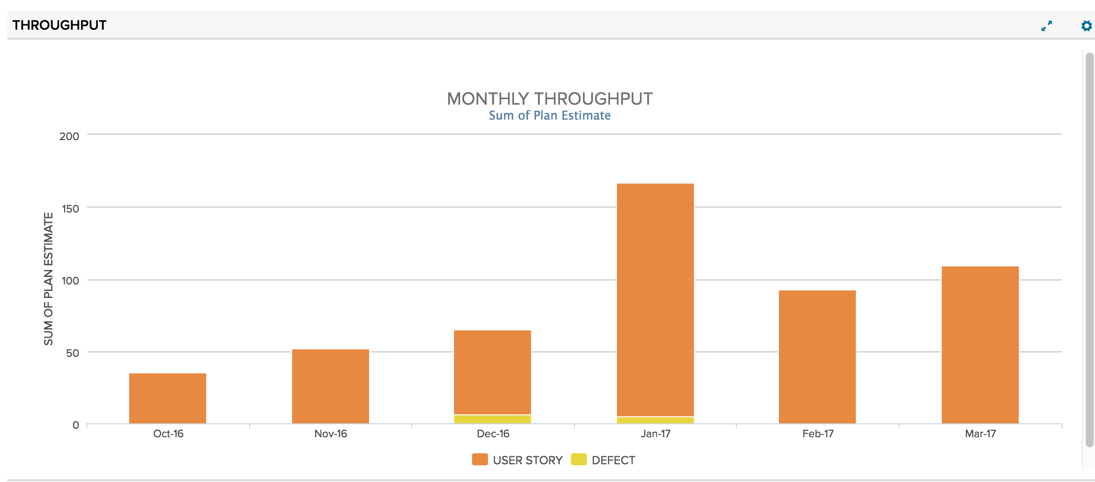
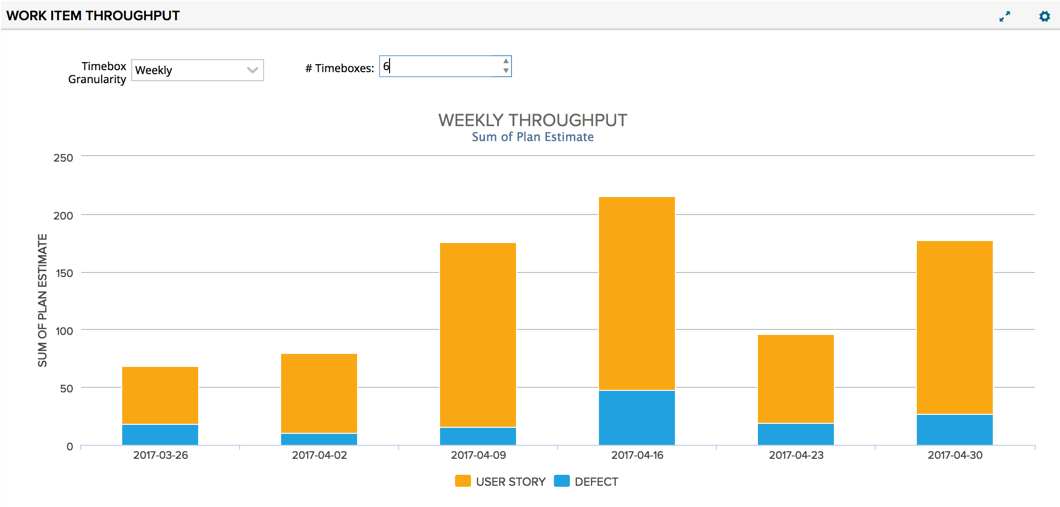
updated colors and added selectors to the front of the app

diff --git a/src/javascript/app.js b/src/javascript/app.js
@@ -17,14 +17,86 @@ Ext.define("workitem-throughput", {
             throughputMeasure: 'PlanEstimate',
             timeboxGranularity: 'week',
             numberTimeboxes: 6,
-            artifactModels: ['Defect','UserStory']
+            artifactModels: ['Defect','UserStory'],
+            allowSettingsOverride: true //If this is false, then the settings won't show on the front
         }
     },
 
+    MAX_TIMEBOXES: 26,
+
     launch: function() {
+        this.initializeApp();
+    },
+    initializeApp: function() {
+
+        if (this.getAllowSettingsOverride()) {
+
+            this.removeAll();
+            this.suspendEvents();
+            var selectorCt = this.add({
+                xtype: 'container',
+                layout: 'hbox'
+            });
+
+            var g = selectorCt.add({
+                xtype: 'rallycombobox',
+                fieldLabel: 'Timebox Granularity',
+                labelAlign: 'right',
+                name: 'timeboxGranularity',
+                itemId: 'timeboxGranularity',
+                editable: false,
+                store: Ext.create('Rally.data.custom.Store', {
+                    data: this.getGranularityData(),
+                    fields: ['name', 'value']
+                }),
+                allowNoEntry: false,
+                displayField: 'name',
+                valueField: 'value',
+                stateful: true,
+                margin: 5,
+                stateId: 'granularity-data'
+            });
+
+            var n = selectorCt.add({
+                xtype: 'rallynumberfield',
+                fieldLabel: '# Timeboxes',
+                labelAlign: 'right',
+                itemId: 'numberTimeboxes',
+                name: 'numberTimeboxes',
+                minValue: 1,
+                maxValue: this.MAX_TIMEBOXES,
+                stateful: true,
+                margin: 5,
+                stateId: 'number-timeboxes'
+            });
+
+            g.on('change', this.updateDisplay, this);
+            n.on('change', this.updateDisplay, this);
+        }
         this.updateDisplay();
     },
     updateDisplay: function(){
+
+        if (this.down('rallychart')){
+            this.down('rallychart').destroy();
+        }
+
+        if (this.down('#messageBox')) {
+            this.down('#messageBox').destroy();
+        }
+
+        this.logger.log('updateDisplay', this.getNumTimeboxes(), this.getTimeboxGranularity());
+
+        if (!this.getNumTimeboxes() || !this.getTimeboxGranularity()){
+
+            this.add({
+                xtype: 'container',
+                itemId: 'messageBox',
+                html:  '<div class="no-data-container"><div class="secondary-message">Please select a granularity and # timeboxes to calculate throughput for.</div></div>'
+            });
+            return;
+        }
+
         this.setLoading(true);
         this.fetchWsapiArtifactRecords({
             models: this.getArtifactModels(),
@@ -37,11 +109,30 @@ Ext.define("workitem-throughput", {
             scope: this
         }).always(function(){ this.setLoading(false);}, this);
     },
-    buildChart: function(records){
-        this.logger.log('buildChart', records);
-        var numTimeboxes = this.getSetting('numberTimeboxes'),
-            timeboxGranularity = this.getSetting('timeboxGranularity');
+    getNumTimeboxes: function(){
 
+        if (this.getAllowSettingsOverride()){
+            return this.down('#numberTimeboxes') &&
+                this.down('#numberTimeboxes').getValue() || null;
+        }
+        return this.getSetting('numberTimeboxes');
+
+    },
+    getAllowSettingsOverride: function(){
+        return this.getSetting('allowSettingsOverride');
+    },
+    getTimeboxGranularity: function(){
+
+        if (this.getAllowSettingsOverride()){
+            return this.down('#timeboxGranularity') &&
+                this.down('#timeboxGranularity').getValue() || null;
+        }
+        return this.getSetting('timeboxGranularity');
+    },
+    buildChart: function(records){
+        var numTimeboxes = this.getNumTimeboxes(),
+            timeboxGranularity = this.getTimeboxGranularity();
+        this.logger.log('buildChart: record count, numTimeboxes, TimeboxGranularity', records.length, numTimeboxes, timeboxGranularity);
         var userStories = Ext.Array.filter(records, function(r){ return r.get('_type') === 'hierarchicalrequirement'; }),
             userStoryData = RallyTechServices.workItemThroughput.utils.FlowCalculator.getBucketData(timeboxGranularity,numTimeboxes,userStories,this.getThroughputMeasure(),'AcceptedDate');
 
@@ -75,7 +166,10 @@ Ext.define("workitem-throughput", {
 
         this.add({
             xtype:'rallychart',
+            chartColors: ['#f9a814','#21A2E0'],
+            context: this.getContext(),
             chartConfig: this.getChartConfig(),
+            loadMask: false,
             chartData: {
                 series: series,
                 categories: categories
@@ -202,7 +296,7 @@ Ext.define("workitem-throughput", {
         return ['ObjectID','AcceptedDate','DirectChildrenCount', this.getThroughputMeasure()];
     },
     getArtifactFilters: function(){
-        var numTimeboxes = this.getSetting('numberTimeboxes'),
+        var numTimeboxes = this.getNumTimeboxes(),
             timeboxGranularity = this.getTimeboxGranularity();
 
         var startDate = RallyTechServices.workItemThroughput.utils.FlowCalculator.getStartDateBoundary(timeboxGranularity,numTimeboxes);
@@ -215,9 +309,6 @@ Ext.define("workitem-throughput", {
     },
     getThroughputMeasure: function(){
         return this.getSetting('throughputMeasure');
-    },
-    getTimeboxGranularity: function(){
-        return this.getSetting('timeboxGranularity');
     },
     fetchWsapiArtifactRecords: function(config){
         var deferred = Ext.create('Deft.Deferred');
@@ -270,19 +361,27 @@ Ext.define("workitem-throughput", {
             xtype: 'rallycombobox',
             fieldLabel: 'Throughput Measure',
             labelAlign: 'right',
+            labelWidth: 200,
             name: 'throughputMeasure',
-            store:  Ext.create('Rally.data.custom.Store', {
+            store: Ext.create('Rally.data.custom.Store', {
                 data: this.getThroughputMeasureData(),
-                fields: ['name','value']
+                fields: ['name', 'value']
             }),
             allowNoEntry: true,
             noEntryText: 'Count',
             displayField: 'name',
             valueField: 'value'
         },{
+            xtype: 'rallycheckboxfield',
+            fieldLabel: 'Allow settings change by users',
+            labelAlign: 'right',
+            labelWidth: 200,
+            name: 'allowSettingsOverride'
+        },{
             xtype: 'rallycombobox',
             fieldLabel: 'Timebox Granularity',
             labelAlign: 'right',
+            labelWidth: 200,
             name: 'timeboxGranularity',
             store: Ext.create('Rally.data.custom.Store', {
                 data: this.getGranularityData(),
@@ -295,10 +394,12 @@ Ext.define("workitem-throughput", {
             xtype: 'rallynumberfield',
             fieldLabel: '# Timeboxes',
             labelAlign: 'right',
+            labelWidth: 200,
             name: 'numberTimeboxes',
             minValue: 1,
-            maxValue: 52
+            maxValue: this.MAX_TIMEBOXES
         }];
+
     },
     getOptions: function() {
         return [

diff --git a/test/fast/flow-calculator-spec.js b/test/fast/flow-calculator-spec.js
@@ -97,7 +97,8 @@ describe("Flow Calculator", function() {
             Ext.create("mockStory", {PlanEstimate: 1, AcceptedDate: new Date('03/02/2017') }),
             Ext.create("mockStory", {PlanEstimate: 7, AcceptedDate: new Date('04/02/2017') })
         ];
-        var data = RallyTechServices.workItemThroughput.utils.FlowCalculator.getBucketData('month',5,records,'PlanEstimate','AcceptedDate');
+        var endDate = new Date('04/15/2017');
+        var data = RallyTechServices.workItemThroughput.utils.FlowCalculator.getBucketData('month',5,records,'PlanEstimate','AcceptedDate', endDate);
         expect(data[0]).toEqual(0);
         expect(data[1]).toEqual(0);
         expect(data[2]).toEqual(4);
@@ -114,7 +115,8 @@ describe("Flow Calculator", function() {
             Ext.create("mockStory", {PlanEstimate: 1, AcceptedDate: new Date('03/02/2017') }),
             Ext.create("mockStory", {PlanEstimate: 7, AcceptedDate: new Date('04/02/2017') })
         ];
-        var data = RallyTechServices.workItemThroughput.utils.FlowCalculator.getBucketData('month',5,records,'PlanEstimate','AcceptedDate');
+        var endDate = new Date('04/15/2017');
+        var data = RallyTechServices.workItemThroughput.utils.FlowCalculator.getBucketData('month',5,records,'PlanEstimate','AcceptedDate', endDate);
         expect(data[0]).toEqual(0);
         expect(data[1]).toEqual(0);
         expect(data[2]).toEqual(4);

diff --git a/test/fast/app-spec.js b/test/fast/app-spec.js
@@ -13,7 +13,7 @@ describe("Example test set", function() {
         var app = Rally.test.Harness.launchApp('workitem-throughput');
 
         expect(app.getSettingsFields()).toBeDefined();
-        expect(app.getSettingsFields().length).toBe(3);
+        expect(app.getSettingsFields().length).toBe(4);
 
         expect(app.getSetting('numberTimeboxes')).toBe(app.config.defaultSettings.numberTimeboxes);
 

diff --git a/README.md b/README.md
@@ -29,6 +29,10 @@ How to measure throughput.  The options are:  Count, Plan Estimate, Task Actual 
 If Count is selected, the throughput will be the count of work items (without children)  
 If Plan Estimate, Task Actual Total or Task Estimate Total are selected, then the throughput will be the sum of the field for all work items without children.    
 
+#### Allow settings change by users 
+If this is checked, then the non-admin users can change the Granularity and the # timeboxes on the front of the app.
+If this is not checked, then the granularity and # timeboxes selectors will not be shown on the front of the app and the settings can only be changed via the App Settings.  
+
 #### Timebox Granularity
 This determines whether throughput will be bucketed into Weeks, Months or Quarters 
 
